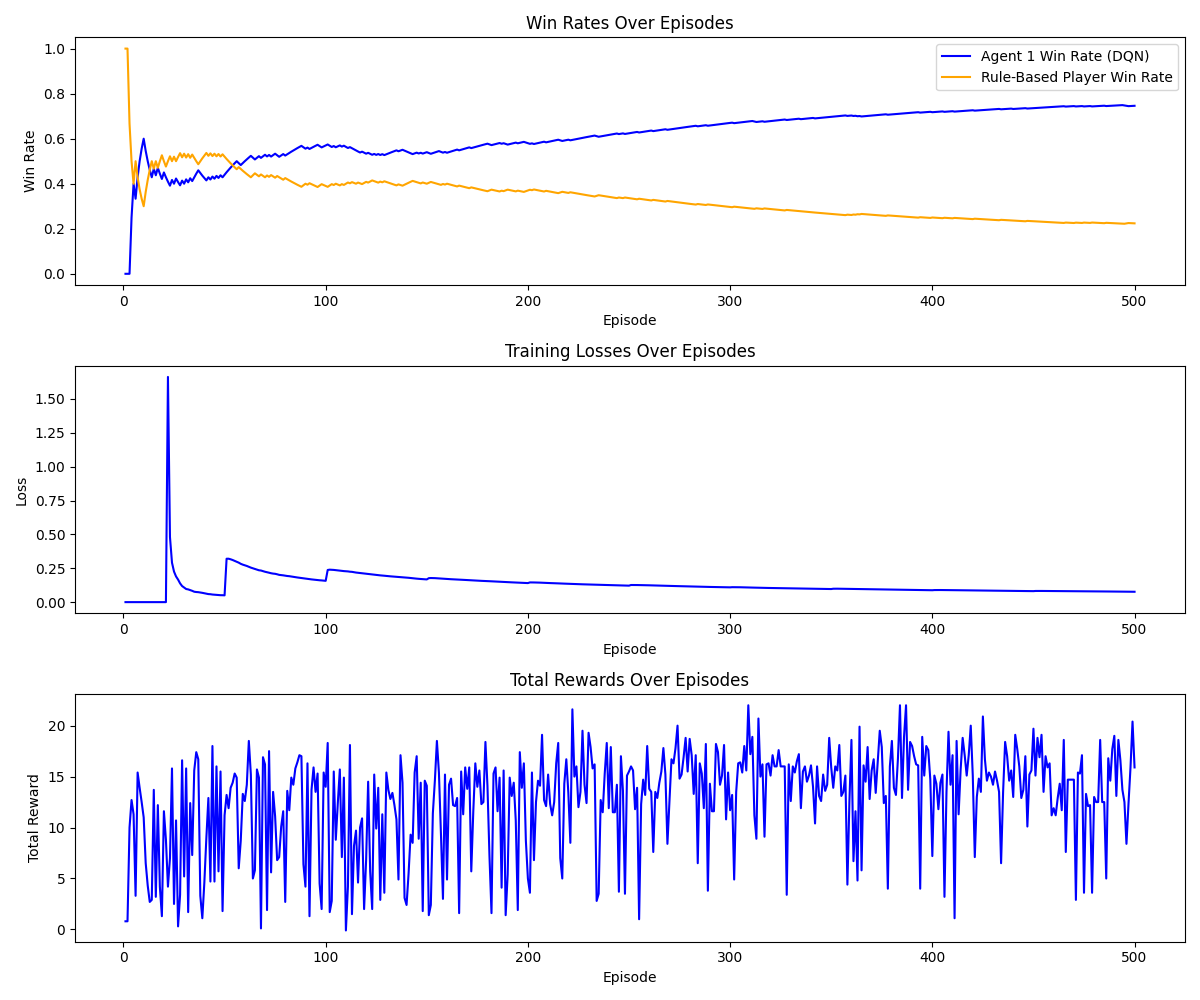
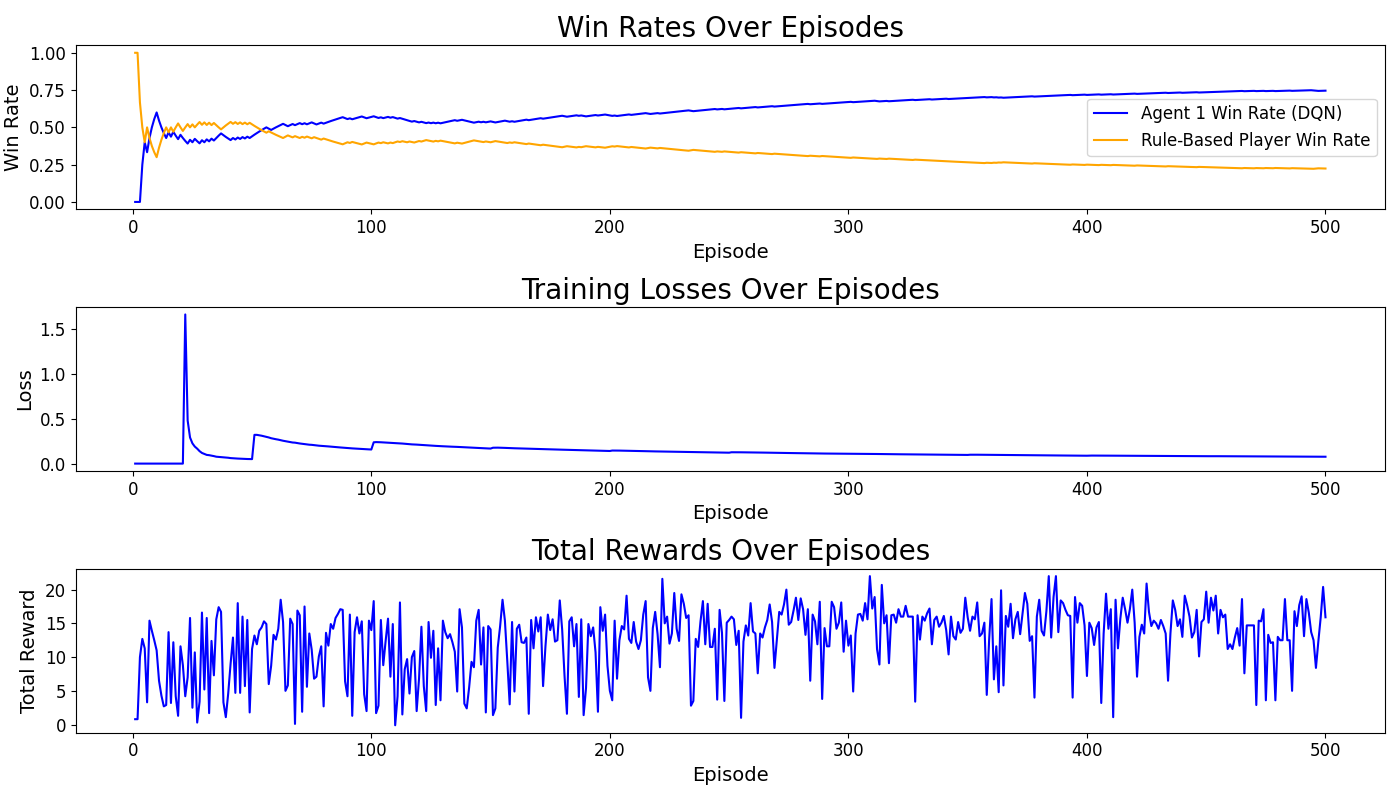
Adjusted plots

diff --git a/vis_rule_based_ppo.py b/vis_rule_based_ppo.py
@@ -50,34 +50,45 @@ def visualize_training_against_rule_based(rewards_type="rewards_1", log_every=1,
     agent1_win_rates = [wr[0] for wr in win_rates]
     rule_based_win_rates = [wr[1] for wr in win_rates]
 
+    # Adjust font sizes
+    title_fontsize = 20
+    label_fontsize = 14
+    tick_fontsize = 12
+    legend_fontsize = 12
+
     # Plotting
-    plt.figure(figsize=(12, 10))
+    plt.figure(figsize=(14, 8))
 
     # Plot Win Rates
     plt.subplot(3, 1, 1)
     plt.plot(episodes, agent1_win_rates, label='Agent 1 Win Rate (PPO)', color='blue')
     plt.plot(episodes, rule_based_win_rates, label='Rule-Based Player Win Rate', color='orange')
-    plt.xlabel('Episode')
-    plt.ylabel('Win Rate')
-    plt.title('Win Rates Over Episodes')
-    plt.legend()
+    plt.xlabel('Episode', fontsize=label_fontsize)
+    plt.ylabel('Win Rate', fontsize=label_fontsize)
+    plt.title('Win Rates Over Episodes', fontsize=title_fontsize)
+    plt.legend(fontsize=legend_fontsize)
+    plt.xticks(fontsize=tick_fontsize)
+    plt.yticks(fontsize=tick_fontsize)
 
     # Plot Training Losses (Policy and Value Losses)
     plt.subplot(3, 1, 2)
     plt.plot(np.arange(1, len(policy_losses) + 1), policy_losses, label='Policy Loss', color='red')
     plt.plot(np.arange(1, len(value_losses) + 1), value_losses, label='Value Loss', color='green')
-    plt.xlabel('Episode')
-    plt.ylabel('Loss')
-    plt.title('Training Losses Over Episodes')
-    plt.legend()
+    plt.xlabel('Episode', fontsize=label_fontsize)
+    plt.ylabel('Loss', fontsize=label_fontsize)
+    plt.title('Training Losses Over Episodes', fontsize=title_fontsize)
+    plt.legend(fontsize=legend_fontsize)
+    plt.xticks(fontsize=tick_fontsize)
+    plt.yticks(fontsize=tick_fontsize)
 
     # Plot Total Rewards per Episode
     plt.subplot(3, 1, 3)
     plt.plot(np.arange(1, len(agent1_rewards) + 1), agent1_rewards, color='blue')
-    plt.xlabel('Episode')
-    plt.ylabel('Total Reward')
-    plt.title('Total Rewards Over Episodes')
-    # plt.legend()
+    plt.xlabel('Episode', fontsize=label_fontsize)
+    plt.ylabel('Total Reward', fontsize=label_fontsize)
+    plt.title('Total Rewards Over Episodes', fontsize=title_fontsize)
+    plt.xticks(fontsize=tick_fontsize)
+    plt.yticks(fontsize=tick_fontsize)
 
     plt.tight_layout()
 
@@ -98,4 +109,4 @@ if __name__ == "__main__":
 
     args = parser.parse_args()
     
-    visualize_training_against_rule_based(rewards_type=args.config_name, log_every=args.log_every)
+    visualize_training_against_rule_based(rewards_type=args.config_name, suffix=args.win_reward)

diff --git a/vis_rule_based_dqn.py b/vis_rule_based_dqn.py
@@ -49,32 +49,44 @@ def visualize_training_against_rule_based(rewards_type="rewards_default", log_ev
     agent1_win_rates = [wr[0] for wr in win_rates]
     rule_based_win_rates = [wr[1] for wr in win_rates]
 
+    # Adjust font sizes
+    title_fontsize = 20
+    label_fontsize = 14
+    tick_fontsize = 12
+    legend_fontsize = 12
+
     # Plotting
-    plt.figure(figsize=(12, 10))
+    plt.figure(figsize=(14, 8))
 
     # Plot Win Rates
     plt.subplot(3, 1, 1)
     plt.plot(episodes, agent1_win_rates, label='Agent 1 Win Rate (DQN)', color='blue')
     plt.plot(episodes, rule_based_win_rates, label='Rule-Based Player Win Rate', color='orange')
-    plt.xlabel('Episode')
-    plt.ylabel('Win Rate')
-    plt.title('Win Rates Over Episodes')
-    plt.legend()
+    plt.xlabel('Episode', fontsize=label_fontsize)
+    plt.ylabel('Win Rate', fontsize=label_fontsize)
+    plt.title('Win Rates Over Episodes', fontsize=title_fontsize)
+    plt.legend(fontsize=legend_fontsize)
+    plt.xticks(fontsize=tick_fontsize)
+    plt.yticks(fontsize=tick_fontsize)
+
 
     # Plot Training Losses
     plt.subplot(3, 1, 2)
     plt.plot(np.arange(1, len(agent1_losses) + 1), agent1_losses, label='Agent 1 Loss (DQN)', color='blue')
-    plt.xlabel('Episode')
-    plt.ylabel('Loss')
-    plt.title('Training Losses Over Episodes')
-    # plt.legend()
+    plt.xlabel('Episode', fontsize=label_fontsize)
+    plt.ylabel('Loss', fontsize=label_fontsize)
+    plt.title('Training Losses Over Episodes', fontsize=title_fontsize)
+    plt.xticks(fontsize=tick_fontsize)
+    plt.yticks(fontsize=tick_fontsize)
 
     # Plot Total Rewards per Episode
     plt.subplot(3, 1, 3)
     plt.plot(np.arange(1, len(agent1_rewards) + 1), agent1_rewards, label='Agent 1 Reward (DQN)', color='blue')
-    plt.xlabel('Episode')
-    plt.ylabel('Total Reward')
-    plt.title('Total Rewards Over Episodes')
+    plt.xlabel('Episode', fontsize=label_fontsize)
+    plt.ylabel('Total Reward', fontsize=label_fontsize)
+    plt.title('Total Rewards Over Episodes', fontsize=title_fontsize)
+    plt.xticks(fontsize=tick_fontsize)
+    plt.yticks(fontsize=tick_fontsize)
     # plt.legend()
 
     plt.tight_layout()
